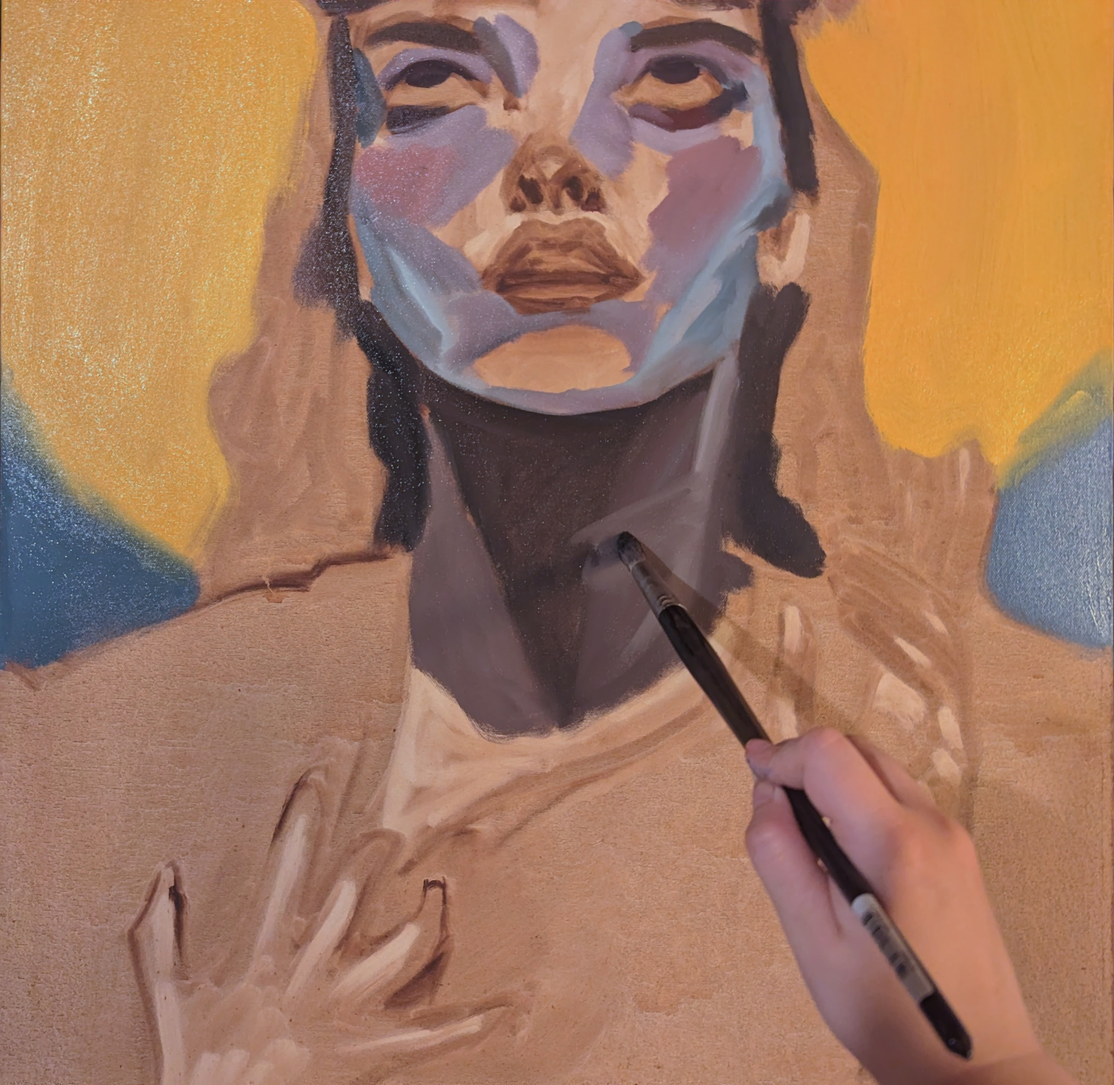
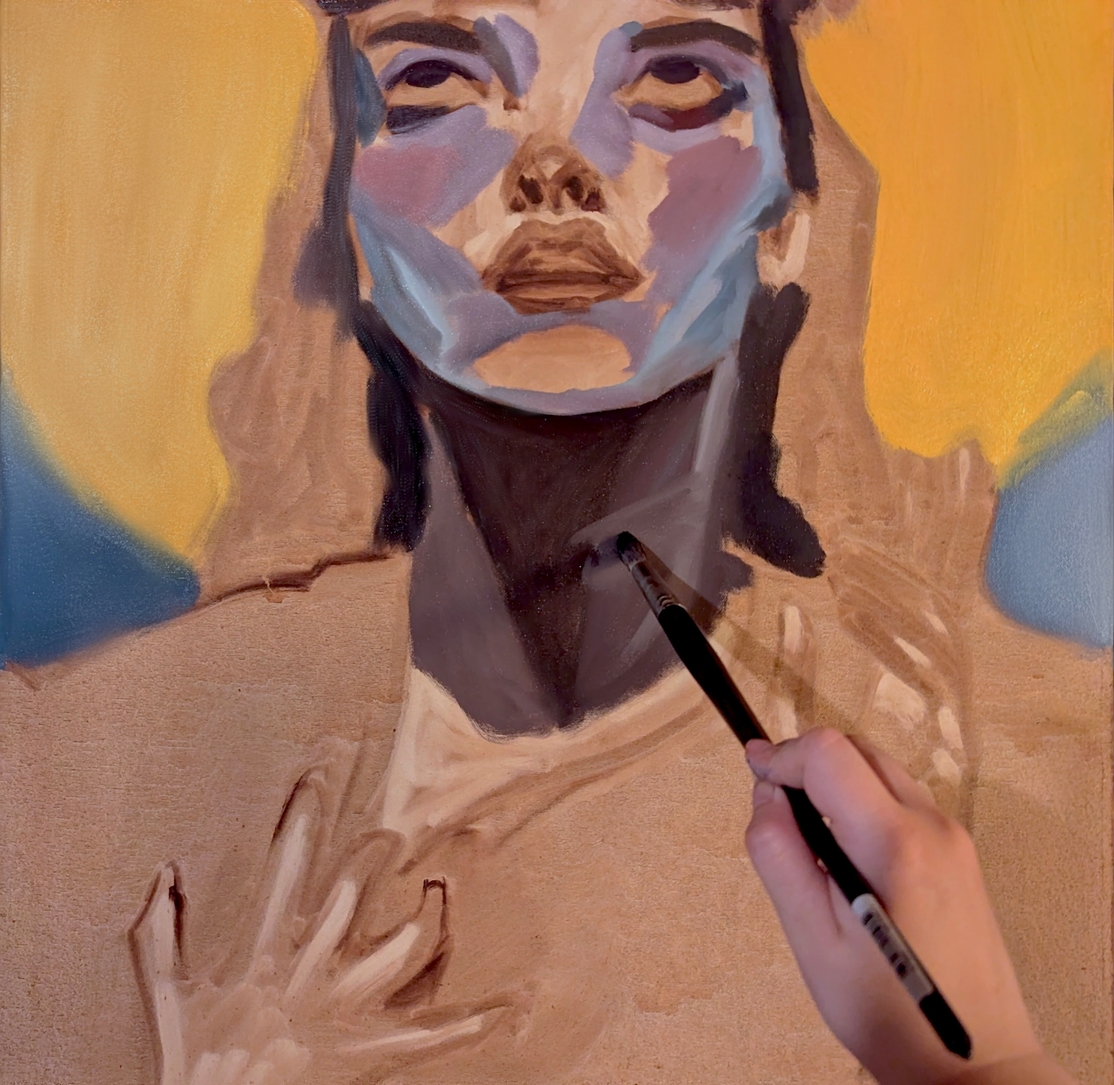
changed images to webp

diff --git a/app/works/page.js b/app/works/page.js
@@ -3,41 +3,41 @@
 import React from "react";
 import styles from "../page.module.css";
 import Image from "next/image";
-import one from "../../public/one.jpg";
-import two from "../../public/two.jpg";
+import one from "../../public/one.webp";
+import two from "../../public/two.webp";
 import three from "../../public/three.webp";
 import four from "../../public/four.webp";
 import five from "../../public/five.webp";
 import six from "../../public/six.webp";
 import seven from "../../public/seven.webp";
 import eight from "../../public/eight.webp";
-import nine from "../../public/nine.jpeg";
+import nine from "../../public/nine.webp";
 import ten from "../../public/ten.webp";
 import eleven from "../../public/eleven.webp";
 import twelve from "../../public/twelve.webp";
 import thirteen from "../../public/thirteen.webp";
 import fourteen from "../../public/fourteen.webp";
-import fifteen from "../../public/fifteen.jpg";
-import sixteen from "../../public/sixteen.jpg";
+import fifteen from "../../public/fifteen.webp";
+import sixteen from "../../public/sixteen.webp";
 import Footer from "../footer";
 
 const artData = [
-  { src: one, size: "12 x 20", medium: "Pastel on paper" },
-  { src: twelve, size: "12 x 20", medium: "Pastel on paper" },
-  { src: three, size: "9 x 12", medium: "Oil paint on canvas" },
-  { src: four, size: "14 x 20", medium: "Pastel on paper" },
-  { src: five, size: "20 x 30", medium: "Pastel on paper" },
-  { src: ten, size: "9 x 12", medium: "Pastel on paper" },
-  { src: eight, size: "10 x 15", medium: "Pastel on paper" },
-  { src: fourteen, size: "10 x 15", medium: "Pastel on paper" },
-  { src: nine, size: "20 x 30", medium: "Pastel on paper" },
-  { src: two, size: "15 x 20", medium: "Pastel on paper" },
-  { src: eleven, size: "10 x 15", medium: "Pastel on paper" },
-  { src: six, size: "8 x 10", medium: "Pastel on paper" },
-  { src: thirteen, size: "8 x 10", medium: "Pastel on paper" },
-  { src: seven, size: "10 x 18", medium: "Pastel on paper" },
-  { src: fifteen, size: "10 x 15", medium: "Pastel on paper" },
-  { src: sixteen, size: "15 x 20", medium: "Pastel on paper" },
+  { src: one, size: "12 x 16", medium: "Pastel" },
+  { src: twelve, size: "12 x 20", medium: "Pastel" },
+  { src: three, size: "9 x 12", medium: "Oil on canvas" },
+  { src: four, size: "9 x 12", medium: "Pastel" },
+  { src: five, size: "20 x 30", medium: "Pastel" },
+  { src: ten, size: "12 x 16", medium: "Pastel" },
+  { src: eight, size: "12 x 16", medium: "Pastel" },
+  { src: nine, size: "12 x 16", medium: "Pastel" },
+  { src: two, size: "15 x 20", medium: "Pastel" },
+  { src: eleven, size: "9 x 12  ", medium: "Pastel" },
+  { src: thirteen, size: "8 x 10", medium: "Pastel" },
+  { src: six, size: "8 x 10", medium: "Pastel" },
+  { src: seven, size: "10 x 18", medium: "Pastel" },
+  { src: fifteen, size: "19 x 25", medium: "Pastel" },
+  { src: sixteen, size: "15 x 20", medium: "Pastel" },
+  { src: fourteen, size: "10 x 15", medium: "Pastel" },
 ];
 
 const ArtItem = ({ src, size, medium }) => (

diff --git a/app/footer.js b/app/footer.js
@@ -29,18 +29,17 @@ export default function Footer() {
 
   return (
     <div className={styles.footer}>
-      <div className={styles.email_container}>
-      <Image
-        onClick={copyToClipboard}
-        className={styles.logo_contact}
-        src={emaillogo}
-        alt=""
-        width={100}
-        height={100}
-      ></Image>
-      <p className={styles.email_footer}>klapkus@gmail.com</p>
+      <div className={styles.email_container} onClick={copyToClipboard}>
+        <Image
+          className={styles.logo_contact}
+          src={emaillogo}
+          alt=""
+          width={100}
+          height={100}
+        ></Image>
+        <p className={styles.email_footer}>klapkus@gmail.com</p>
       </div>
-      
+
       <a
         href="https://www.instagram.com/art.by.kriste?utm_source=ig_web_button_share_sheet&igsh=ZDNlZDc0MzIxNw=="
         target="_blank"
@@ -62,7 +61,12 @@ export default function Footer() {
             position: "fixed",
             top: tooltip.y,
             left: tooltip.x,
-            ...tooltipStyle,
+            backgroundColor: "black",
+            color: "white",
+            padding: "5px",
+            borderRadius: "3px",
+            zIndex: 1000,
+            transform: "translate(-50%, -100%)",
           }}
         >
           Email copied!

diff --git a/app/page.js b/app/page.js
@@ -3,8 +3,8 @@
 import React from "react";
 import Link from "next/link";
 import viewartwork from "../public/viewartwork.jpg";
-import basement from "../public/basement_empty.jpg";
-import pastels from "../public/pastelsorganized.jpg";
+import basement from "../public/basement_empty.webp";
+import pastels from "../public/pastelsorganized.webp";
 import Image from "next/image";
 import Footer from "./footer";
 import styles from "./page.module.css";

diff --git a/app/page.module.css b/app/page.module.css
@@ -148,7 +148,6 @@
   justify-content: center;
   align-items: flex-start;
   gap: 3vw;
-  height: 3vh;
   margin: 5vh;
 }
 
@@ -229,6 +228,10 @@
   display: inline-block;
   object-fit: cover;
   height: 46vh;
+}
+
+.art_img {
+  object-fit: cover;
 }
 
 .art::after {
@@ -322,6 +325,7 @@
   color: black;
 }
 
+.email_container:hover,
 .gmail_contact:hover {
   cursor: pointer;
 }

diff --git a/app/contact/page.js b/app/contact/page.js
@@ -2,7 +2,7 @@
 
 import React, { useState } from "react";
 import Image from "next/image";
-import kristeportrait from "../../public/kristepic.jpg";
+import kristeportrait from "../../public/kristepic.webp";
 import gmaillogo from "../../public/emaillogo.png";
 import styles from "../page.module.css";
 import instagramlogo from "../../public/instagram.webp";

diff --git a/app/about/page.js b/app/about/page.js
@@ -1,6 +1,6 @@
 import React from "react";
 import Image from "next/image";
-import kristebasement from "../../public/kristebasement.jpg";
+import kristebasement from "../../public/kristebasement.webp";
 import paintbrush from "../../public/paintbrush.png";
 import styles from "../page.module.css";
 import Footer from "../footer";
